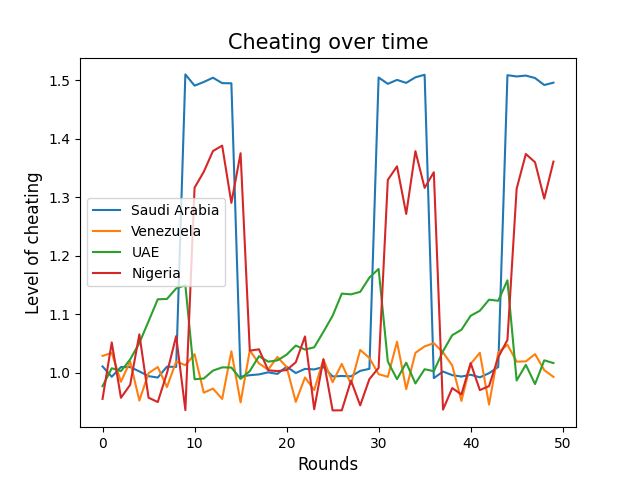
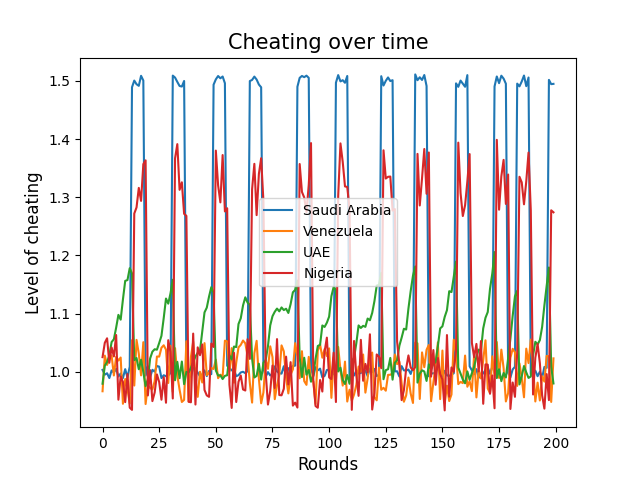
added save market strategy

diff --git a/strategies.py b/strategies.py
@@ -51,11 +51,21 @@ def play_desperate(country, market_state):
 
     return country.quota * min(max_production_multiplier, dynamic_multiplier)
 
+def play_save_market(country, market_state):
+    if market_state.round == 0:
+        return country.quota
+
+    if market_state.price < country.kwargs['cutoff_price']:
+        return country.quota * 0.8
+
+    return country.quota
+
 
 strategy_dict = {
     "comply" : play_comply,
     "random" : play_random,
     "creeper" : play_creeper,
     "enforce" : play_enforce,
-    "desperate" : play_desperate
+    "desperate" : play_desperate,
+    "save market" : play_save_market
 }